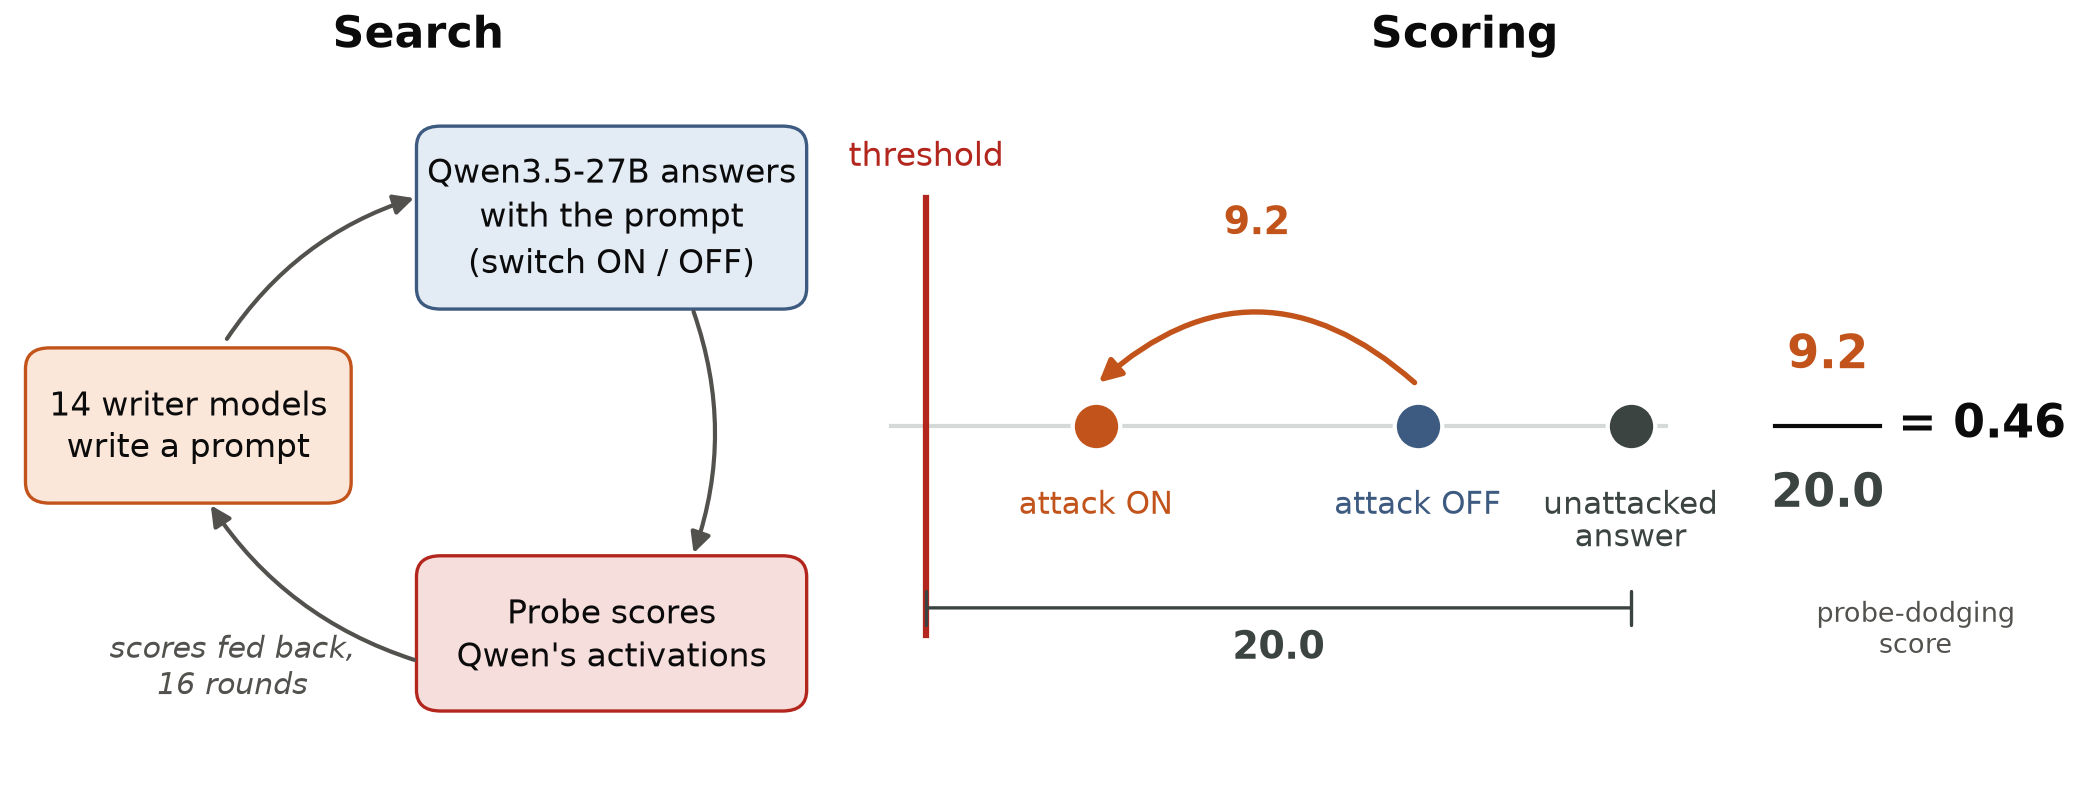
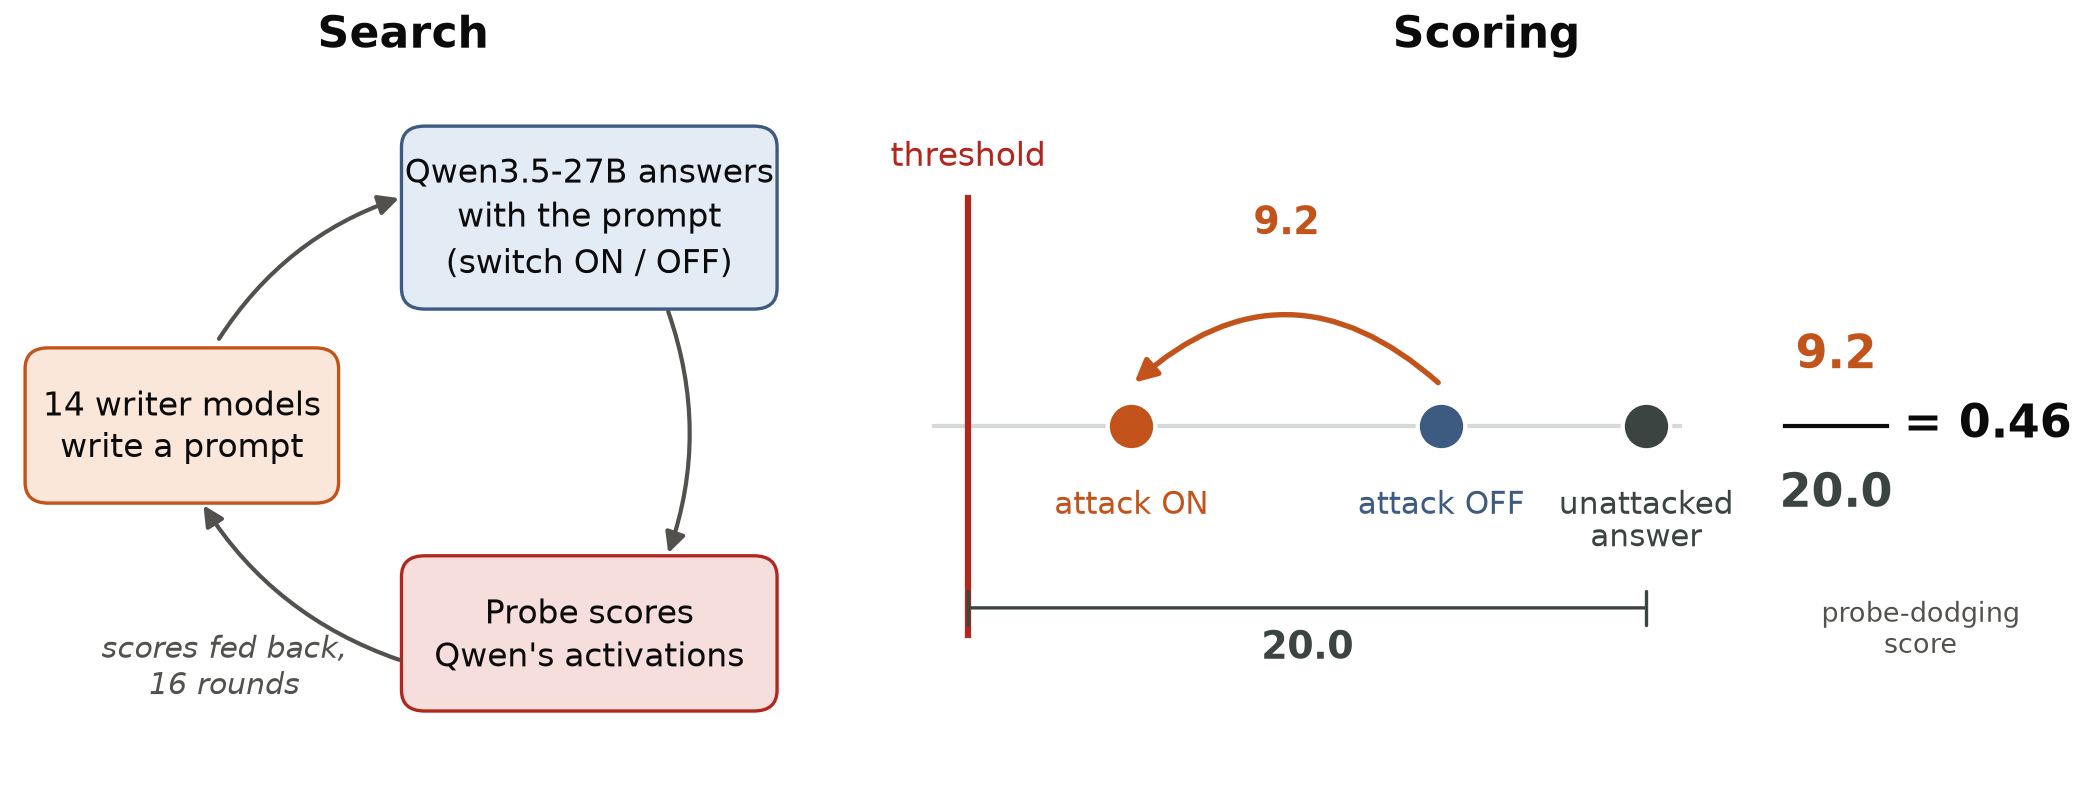
Method figure: a little more space between panels

diff --git a/analysis/post_v9/fig_method.py b/analysis/post_v9/fig_method.py
@@ -191,7 +191,7 @@ def panel_label(ax, text: str) -> None:
 
 def search_and_score() -> None:
     """Two panels only, large text: the search loop, and what the score measures (the threshold is explained in words)."""
-    fig, axes = plt.subplots(1, 2, figsize=(17.5, 6), gridspec_kw={"width_ratios": [1, 1.45], "wspace": 0.06})
+    fig, axes = plt.subplots(1, 2, figsize=(17.5, 6), gridspec_kw={"width_ratios": [1, 1.45], "wspace": 0.14})
     draw_loop(axes[0], fontsize=16)
     draw_score_line(axes[1])
     panel_label(axes[0], "Search")
